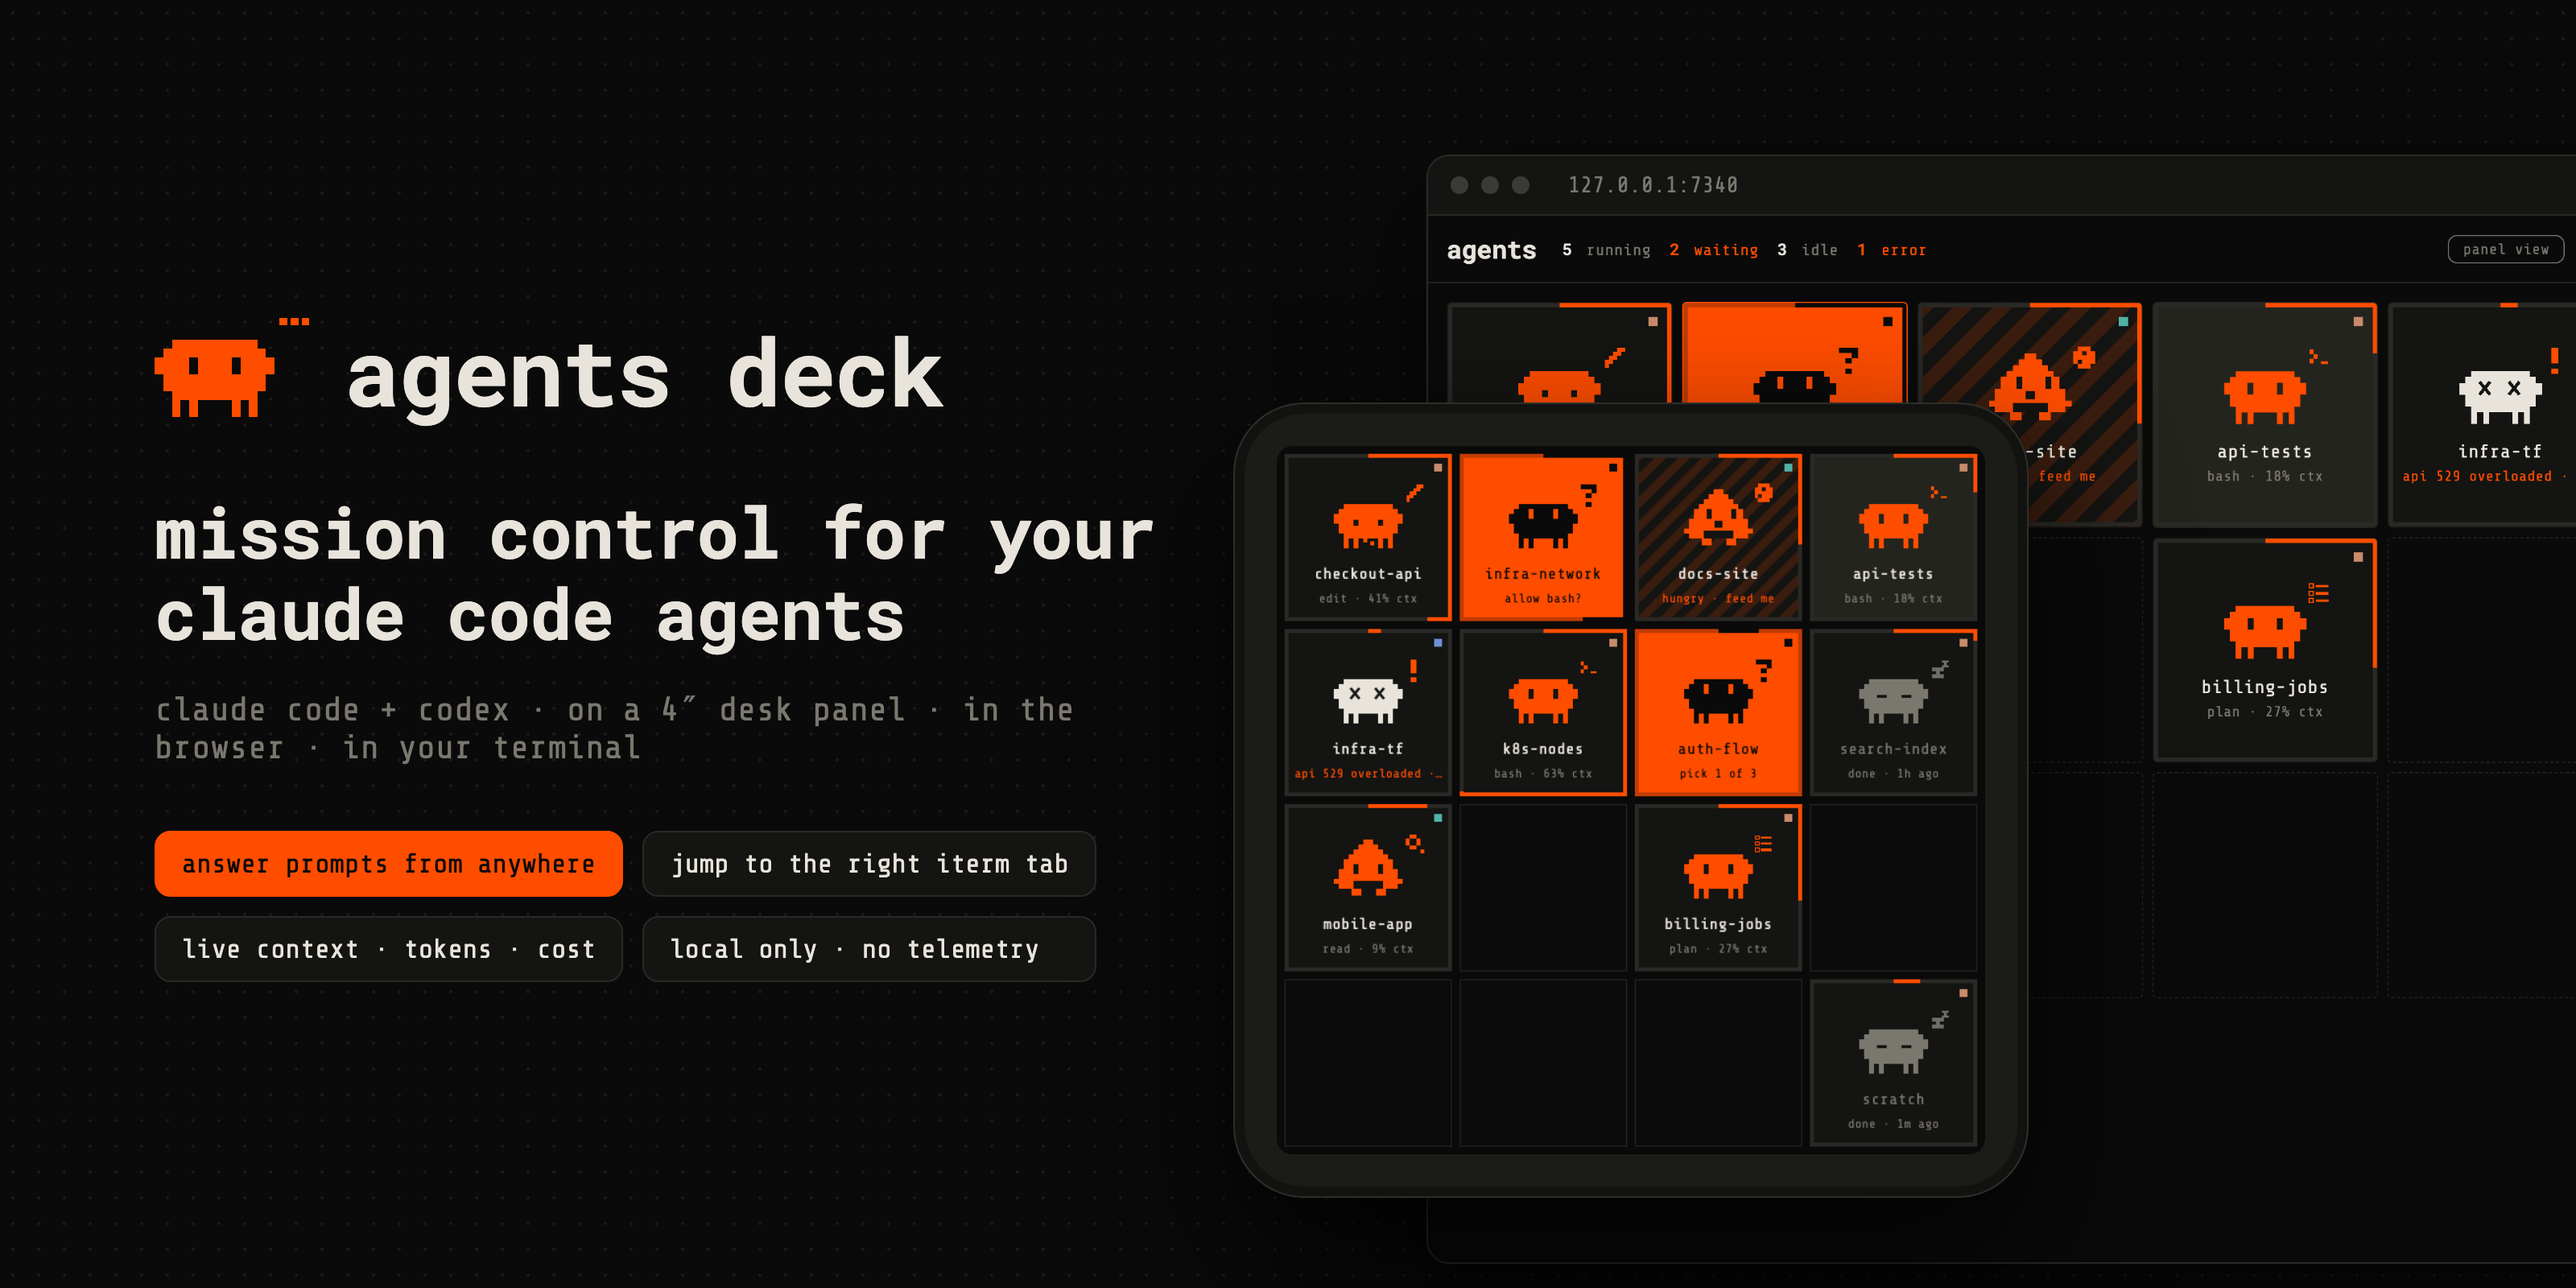
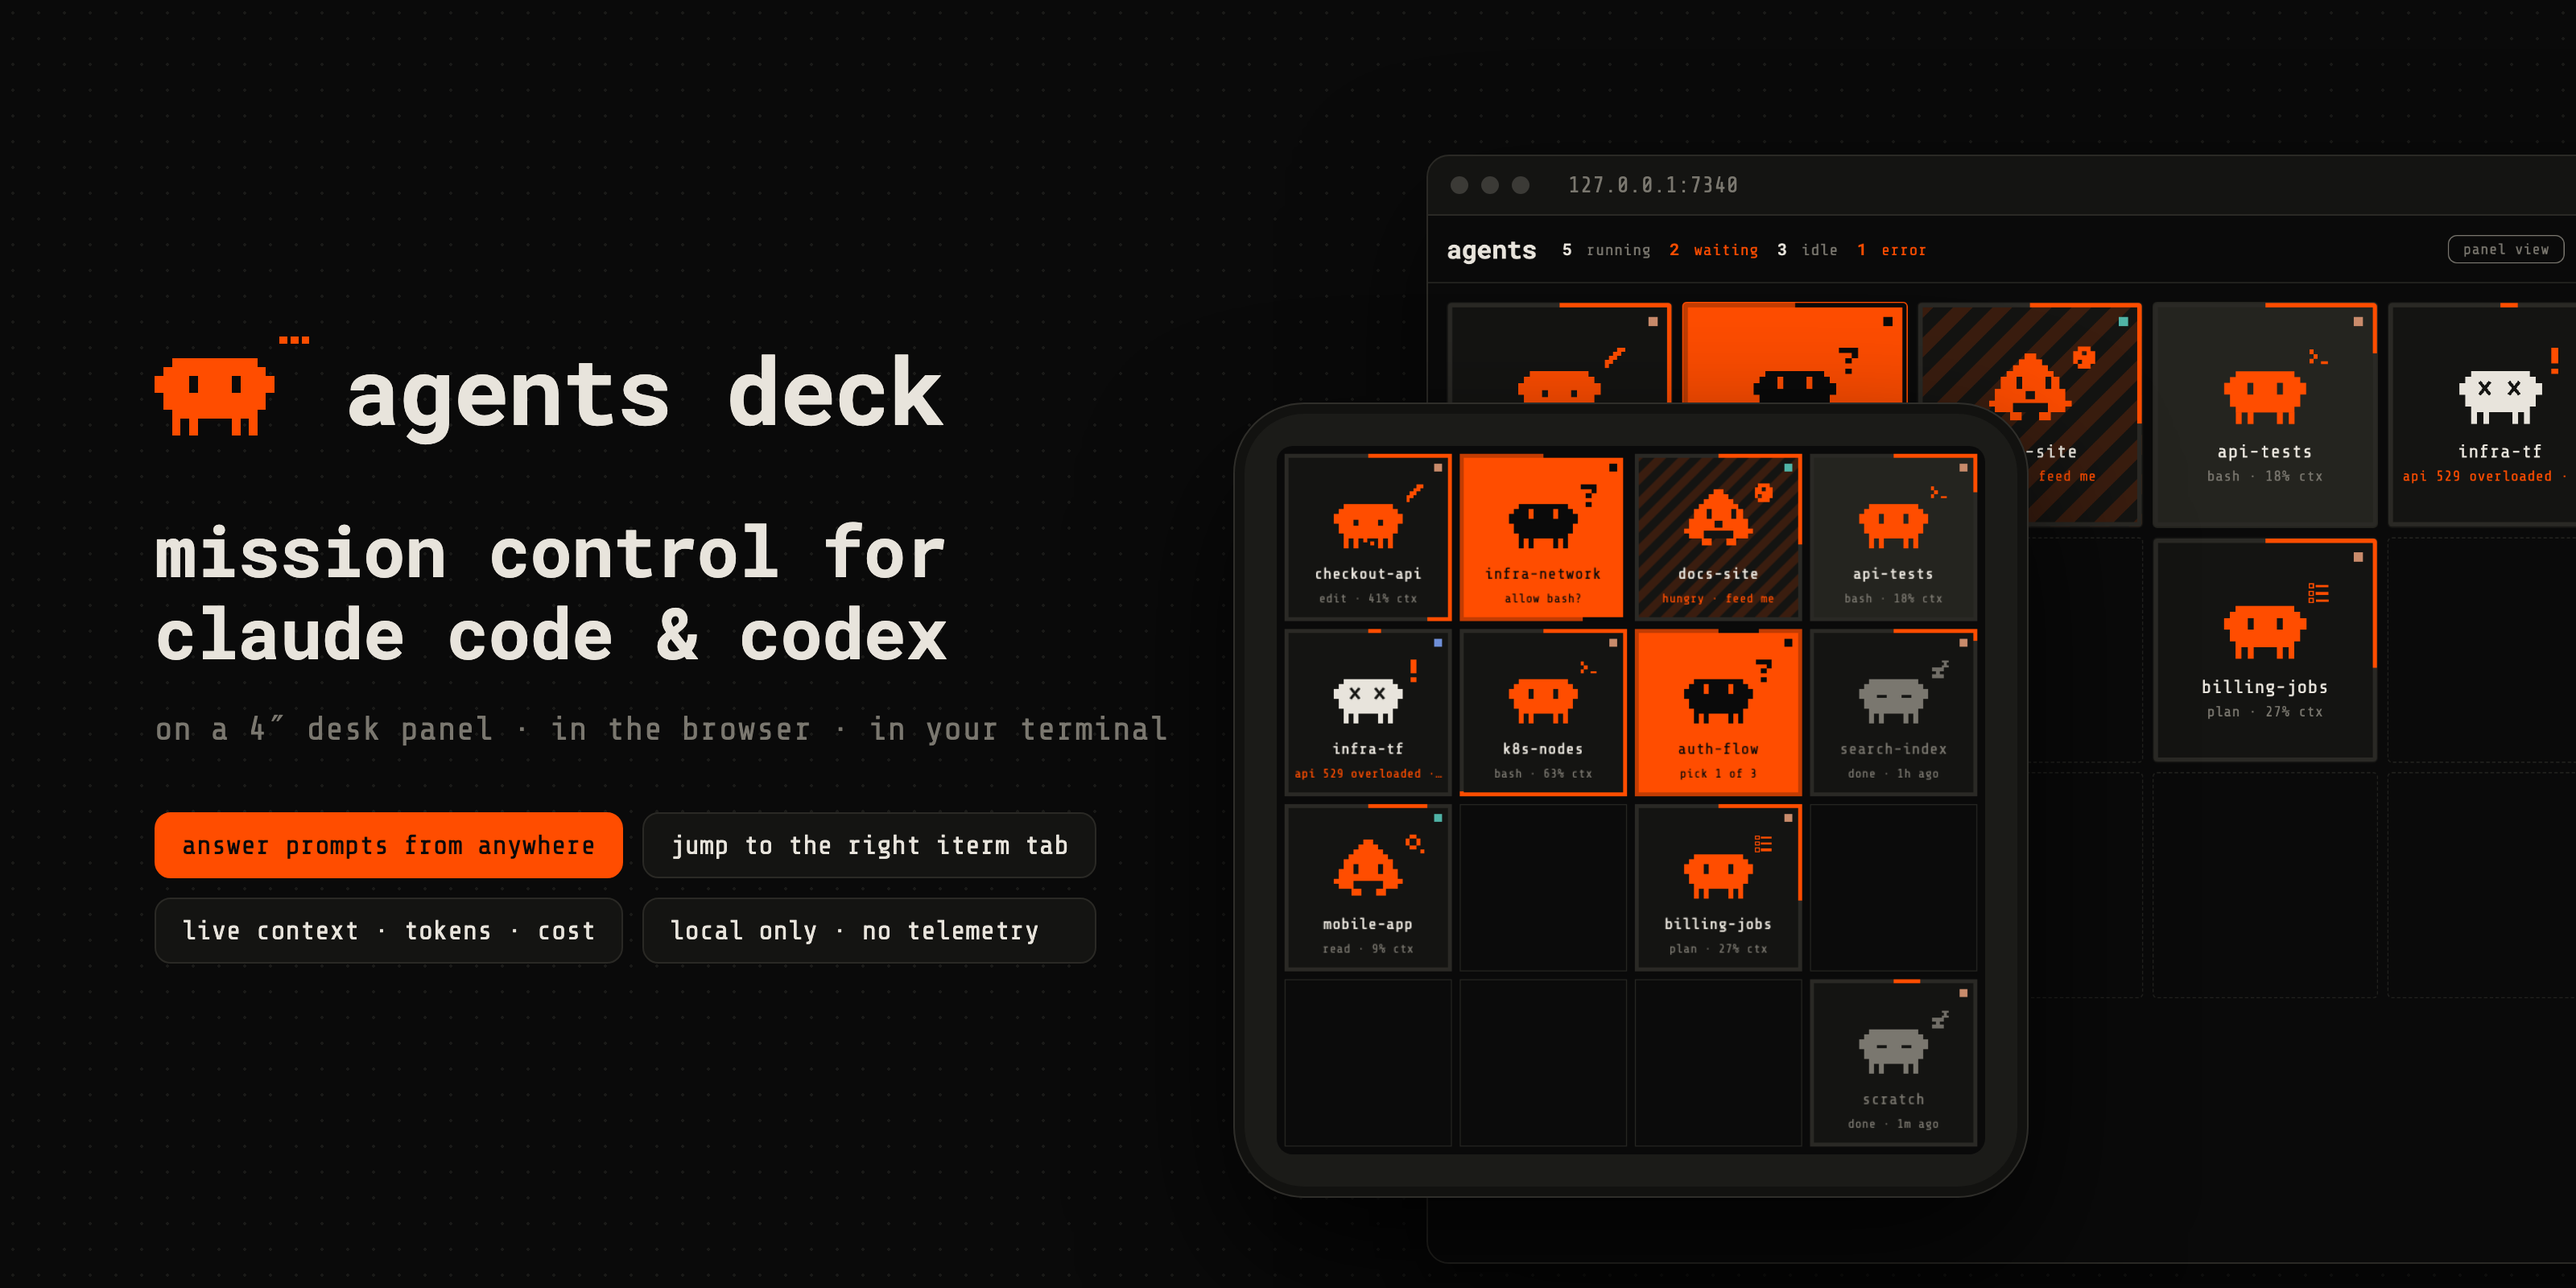
Codex: read huge rollouts from the tail; README covers Codex
A 1.4 GB rollout took minutes to replay 8 MB at a time after each
restart, so finished threads kept showing as running. Start at the
last 8 MB instead: status, model and cumulative tokens are all there.

Claude-Session: https://claude.ai/code/session_01Qi6CVTpwKe76G62P4KuUZF

diff --git a/backend/internal/codex/codex_test.go b/backend/internal/codex/codex_test.go
@@ -60,3 +60,25 @@ func TestAgentIDStable(t *testing.T) {
 		t.Fatalf("%q %q", a, b)
 	}
 }
+
+func TestTailStartsNearTheEndOfHugeRollouts(t *testing.T) {
+	path := filepath.Join(t.TempDir(), "rollout.jsonl")
+	var b strings.Builder
+	b.WriteString(`{"type":"event_msg","payload":{"type":"task_started"}}` + "\n")
+	filler := `{"type":"response_item","payload":{"type":"reasoning","summary":"` + strings.Repeat("x", 1000) + `"}}` + "\n"
+	for b.Len() < maxRead+maxRead/2 {
+		b.WriteString(filler)
+	}
+	b.WriteString(`{"type":"event_msg","payload":{"type":"task_complete"}}` + "\n")
+	if err := os.WriteFile(path, []byte(b.String()), 0o600); err != nil {
+		t.Fatal(err)
+	}
+	e := &store.Entry{Transcript: path}
+	Tail(e)
+	if e.A.Status != model.Idle || e.A.Unseen {
+		t.Fatalf("one pass should reach the finished turn at the end: %+v", e.A)
+	}
+	if e.Offset != int64(b.Len()) || e.Pending != "" {
+		t.Fatalf("offset %d of %d, pending %q", e.Offset, b.Len(), e.Pending)
+	}
+}

diff --git a/backend/internal/codex/codex.go b/backend/internal/codex/codex.go
@@ -145,11 +145,26 @@ func Tail(e *store.Entry) bool {
 	if st.Size() == e.Offset {
 		return false
 	}
+	first := e.Offset == 0
+	skipPartial := false
+	if first && st.Size() > maxRead {
+		// Long threads grow rollouts past a gigabyte. Status, model and the
+		// (cumulative) token counts all come from recent lines, so start at
+		// the tail instead of replaying the whole history.
+		e.Offset, skipPartial = st.Size()-maxRead, true
+	}
 	if _, err := f.Seek(e.Offset, io.SeekStart); err != nil {
 		return false
 	}
 	buf, _ := io.ReadAll(io.LimitReader(f, maxRead))
-	first := e.Offset == 0
+	if skipPartial {
+		i := bytes.IndexByte(buf, '\n')
+		if i < 0 {
+			return false
+		}
+		e.Offset += int64(i + 1)
+		buf = buf[i+1:]
+	}
 	e.Offset += int64(len(buf))
 	data := append([]byte(e.Pending), buf...)
 	last := bytes.LastIndexByte(data, '\n')

diff --git a/backend/cmd/agentctl/main.go b/backend/cmd/agentctl/main.go
@@ -285,7 +285,11 @@ func list() error {
 		if a.Waiting != nil {
 			st += ": " + a.Waiting.Title
 		}
-		fmt.Fprintf(tw, "%s\t%s\t%s\t%s\t$%.2f\t%s\n", a.ID, a.Title, st, ctx, a.CostUSD, a.Folder)
+		cost := fmt.Sprintf("$%.2f", a.CostUSD)
+		if a.External {
+			cost = "—" // Codex reports no prices
+		}
+		fmt.Fprintf(tw, "%s\t%s\t%s\t%s\t%s\t%s\n", a.ID, a.Title, st, ctx, cost, a.Folder)
 	}
 	return tw.Flush()
 }

diff --git a/README.md b/README.md
@@ -1,10 +1,12 @@
-<p align="center"><img src="docs/images/hero.png" alt="agents deck: a pixel-critter board of Claude Code agents on a 4-inch desk panel and in the browser" width="100%"></p>
+<p align="center"><img src="docs/images/hero.png" alt="agents deck: a pixel-critter board of Claude Code and Codex agents on a 4-inch desk panel and in the browser" width="100%"></p>
 
 # agents deck
 
-**Mission control for a fleet of Claude Code agents**, plus your Codex sessions, on a 4″ desk panel, in the browser and in your terminal.
+**Mission control for your Claude Code and Codex agents**, on a 4″ desk panel, in the browser and in your terminal.
 
-You start agents with `agentctl new`. Each one runs in a private tmux session, and a small Go daemon keeps track of all of them: who's working, who needs you, what each one is doing, how full its context is and what it has cost so far. The board shows that live. When an agent asks for permission or asks you a question, you can answer from the panel or the web without going back to the terminal. **focus terminal** takes you to that agent's iTerm tab, even inside a hidden hotkey window.
+Claude Code agents are started with `agentctl new`. Each one runs in a private tmux session, and a small Go daemon keeps track of all of them: who's working, who needs you, what each one is doing, how full its context is and what it has cost so far. The board shows that live. When an agent asks for permission or asks you a question, you can answer from the panel or the web without going back to the terminal. **focus terminal** takes you to that agent's iTerm tab, even inside a hidden hotkey window.
+
+Your **Codex** threads join the same board automatically, with no wrapper and no login. The deck reads the Codex app's local files read-only and draws those threads with their own mascot, an onigiri. See [Codex sessions](#codex-sessions).
 
 The daemon only talks to your own Mac and your own panel. It has no telemetry and no third-party Go dependencies.
 
@@ -35,17 +37,27 @@ A 4-inch 720×720 touch panel (Raspberry Pi CM4, Flutter) talks to the daemon ov
 
 ---
 
-### Codex sessions too
+## Codex sessions
 
-Threads from the **Codex app** (and Codex CLI) that were active in the last 6 hours appear on the board automatically. They're drawn by their own mascot: an onigiri, a little rice triangle wrapped in nori. No wrapper, no login and no config change is needed. agents deck reads Codex's local files read-only:
+Threads from the **Codex app** (and Codex CLI) that were active in the last 6 hours appear on the board automatically, next to your Claude agents. They're drawn as an onigiri, a little rice triangle wrapped in nori, and go through the same poses: thinking, reading, running commands, asking you something, and hungry when a turn finishes. No wrapper, no login and no config change is needed. agents deck reads Codex's local files read-only:
 - **Names, folder, branch and model** come from `~/.codex/state_*.sqlite`, opened with the system `sqlite3 -readonly`.
-- **Live status** comes from each thread's `~/.codex/sessions/…/rollout-*.jsonl`: running or idle, what it's doing, context window, tokens, a question waiting for you, and hungry when a turn finishes.
+- **Live status** comes from the end of each thread's `~/.codex/sessions/…/rollout-*.jsonl`: running or idle, what it's doing, context window, tokens, a question waiting for you, and hungry when a turn finishes. Long threads with gigabyte-sized logs are read from the tail, so they show up right away.
 
-**focus** opens the thread in the Codex app (`codex://threads/<id>`). Answering, interrupting and stopping stay in the Codex app. **hide** removes a thread from the board until it's active again. Settings in `config.json`: `"codex": false` turns it off, and `"codexWindowHours": 12` widens the window.
+| | Claude Code agents | Codex threads |
+|---|---|---|
+| started by | `agentctl new` / `resume` | the Codex app, as usual |
+| status, activity, context, tokens | yes | yes |
+| cost estimate | yes | — (Codex reports no prices) |
+| answer prompts from the deck | yes | no, answer in the Codex app |
+| focus | the agent's iTerm tab | opens the thread in the Codex app (`codex://threads/<id>`) |
+| interrupt / stop | yes | no |
+| remove from the board | **stop** | **hide**, until the thread is active again |
+
+Settings in `config.json`: `"codex": false` turns it off, and `"codexWindowHours": 12` widens the window.
 
 ## Quick start
 
-Requirements: macOS, Go 1.24+, tmux, Claude Code, and iTerm2 (only needed for tab focus).
+Requirements: macOS, Go 1.24+, tmux, Claude Code, and iTerm2 (only needed for tab focus). The Codex app is optional; its threads show up once it's installed.
 
 ```bash
 git clone git@github.com:brushknight/agents-deck.git && cd agents-deck/backend
@@ -91,11 +103,14 @@ flowchart LR
   D -- "/v1 + SSE · 127.0.0.1" --> W["web dashboard"]
   D -- "/v1 + SSE · TLS, pinned cert, token" --> P["desk panel (Flutter)"]
   D -- "iTerm API + StealFocus escape" --> I["iTerm tab"]
+  X["~/.codex: state db + rollouts"] -- "read-only: threads, status, tokens" --> D
   classDef a fill:#FF4D00,color:#0A0A0A,stroke:#FF4D00
 ```
 
 - **Status.** Each agent is started with its own hook settings file, so your global `~/.claude/settings.json` is never touched. Hooks report prompts, tool calls, permission requests and stops. Dialogs that don't fire a hook, such as workspace trust, are read off the screen.
 - **Usage.** Token counts, model, branch and Claude's session title come from Claude's transcript files. Cost is estimated from public list prices.
+- **Subagents.** A session whose subagents are still writing (`<session>/subagents/*.jsonl`) shows as running, even while its main loop is idle.
+- **Codex.** A separate watcher polls the Codex state database and tails rollout logs, both read-only (see [Codex sessions](#codex-sessions)).
 - **Answers.** The chosen key is sent into the agent's tmux session. Arrow-key menus get Up/Down + Enter.
 - **Focus.** iTerm's local API selects the agent's tab and pane. Then iTerm's `StealFocus` escape code, written to that pane's terminal, brings the window forward, including a hidden hotkey window. The alternatives are `agentctl set term tmux` (switch your last-used tab to the agent) and `window` (only raise the window).
 - **Protocol.** One small JSON API that sends the whole state on every change. See [docs/protocol.md](docs/protocol.md).
@@ -103,6 +118,7 @@ flowchart LR
 ## Security & privacy
 
 - **Nothing leaves your machine.** No telemetry, no update checks, standard library only.
+- **Codex is read, never written.** The state database is opened with `sqlite3 -readonly` and rollouts are only read; the deck never talks to OpenAI or the Codex app, apart from opening a `codex://` link when you press focus.
 - **The web dashboard is loopback-only:**
   - it only answers requests for its own host name, which blocks DNS-rebinding attacks;
   - the login is a one-time link that sets an HttpOnly, SameSite=Strict cookie;
